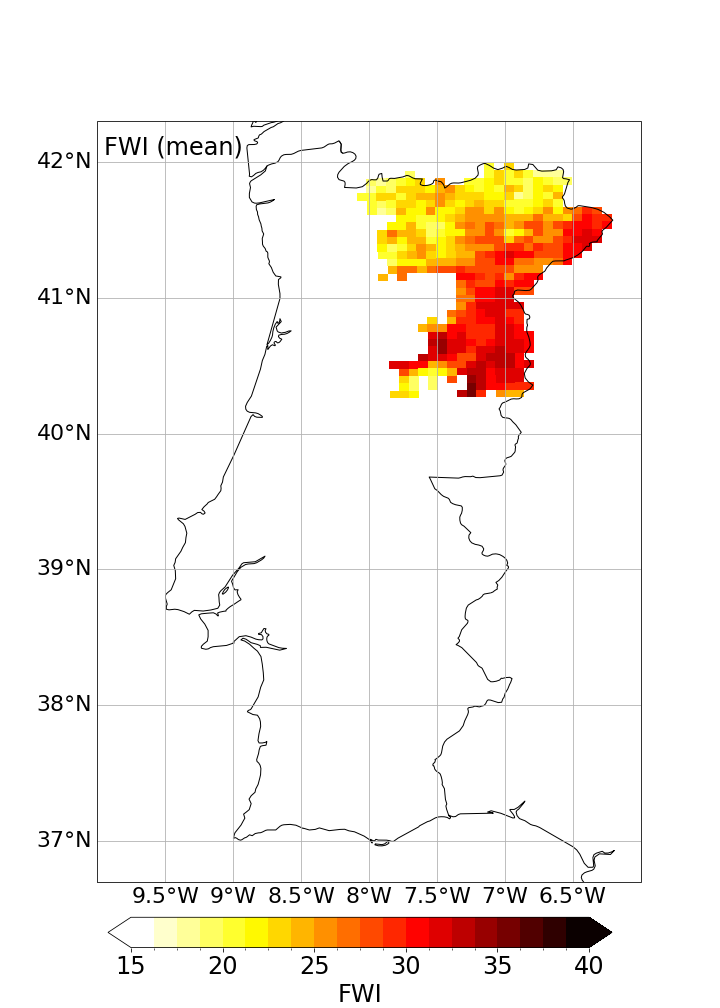
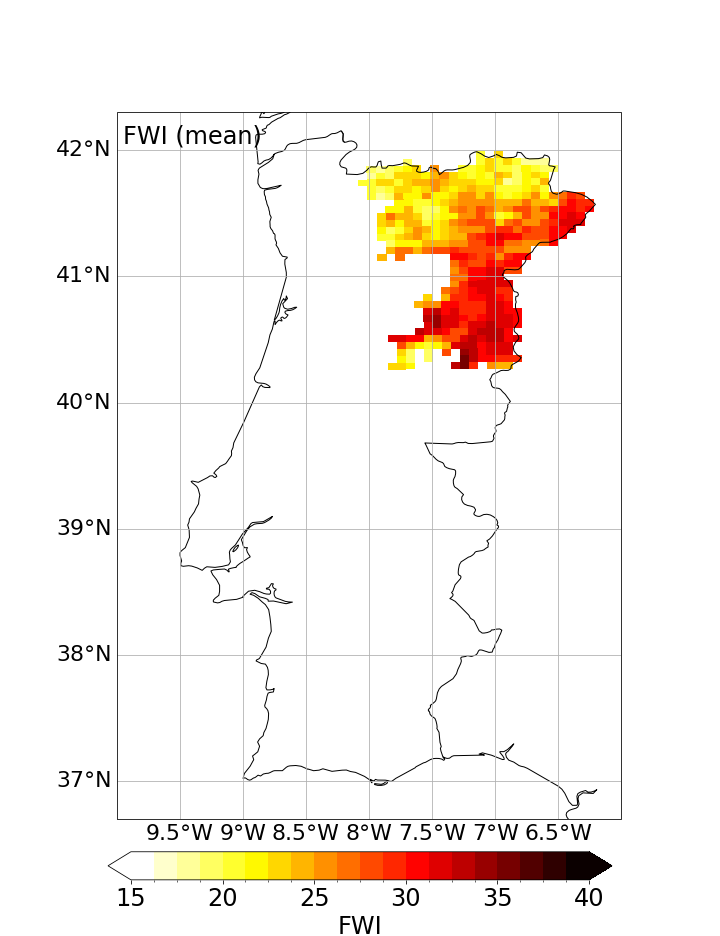
First commit

diff --git a/examples/plots_fwi.py b/examples/plots_fwi.py
@@ -101,7 +101,7 @@ label_name = 'FWI (mean)'
 var = 'fwi_mean_nomask'
 fig_p = output_dir+plot_name1
 cb_lims, delta_c = [[15, 40], 5] # colorbar limits and delta
-fig, ax = make_map(my_proj, fnt_size=22, fig_size=[10, 14])
+fig, ax = make_map(my_proj, fnt_size=22, fig_size=[10, 13])
 plot_fwi_vars(fig=fig, ax=ax, fig_path=fig_p, domain_lims=d_lims, var=var,
                var_dict=fwi_fields, lon=lon, lat=lat, top_label=label_name,
                colorbar_lims=cb_lims, colorbar_delta=delta_c)
@@ -110,7 +110,7 @@ label_name = 'FWI (mean)'
 var = 'fwi_mean'
 fig_p = output_dir+plot_name2
 cb_lims, delta_c = [[15, 40], 5]
-fig, ax = make_map(my_proj, fnt_size=22, fig_size=[10, 14])
+fig, ax = make_map(my_proj, fnt_size=22, fig_size=[10, 13])
 plot_fwi_vars(fig=fig, ax=ax, fig_path=fig_p, domain_lims=d_lims, var=var,
                var_dict=fwi_fields, lon=lon, lat=lat, top_label=label_name,
                colorbar_lims=cb_lims, colorbar_delta=delta_c)
@@ -120,7 +120,7 @@ danger_lvl = 'veryhigh'
 var = 'ndays_'+danger_lvl
 fig_p = output_dir+plot_name3
 cb_lims, delta_c = [[0, 20], 4]
-fig, ax = make_map(my_proj, fnt_size=22, fig_size=[10, 14])
+fig, ax = make_map(my_proj, fnt_size=22, fig_size=[10, 13])
 plot_fwi_vars(fig=fig, ax=ax, fig_path=fig_p, domain_lims=d_lims, var=var,
                var_dict=fwi_fields, lon=lon, lat=lat, top_label=label_name,
                colorbar_lims=cb_lims, colorbar_delta=delta_c)
@@ -130,7 +130,7 @@ danger_lvl = 'extreme'
 var = 'ndays_'+danger_lvl
 fig_p = output_dir+plot_name4
 cb_lims, delta_c = [[0, 10], 2]
-fig, ax = make_map(my_proj, fnt_size=22, fig_size=[10, 14])
+fig, ax = make_map(my_proj, fnt_size=22, fig_size=[10, 13])
 plot_fwi_vars(fig=fig, ax=ax, fig_path=fig_p, domain_lims=d_lims, var=var,
                var_dict=fwi_fields, lon=lon, lat=lat, top_label=label_name,
                colorbar_lims=cb_lims, colorbar_delta=delta_c)

diff --git a/README.md b/README.md
@@ -61,5 +61,5 @@ Map of the FWI mean without masking.
 fwi_mean.png
 ```
 Map of the FWI mean with masking.
-<img src="https://github.com/nunomrm/fwi-wrfout/blob/main/output/plots/fwi_mean_mask.png">
+<img src="https://github.com/nunomrm/fwi-wrfout/blob/main/output/plots/fwi_mean.png">
 
